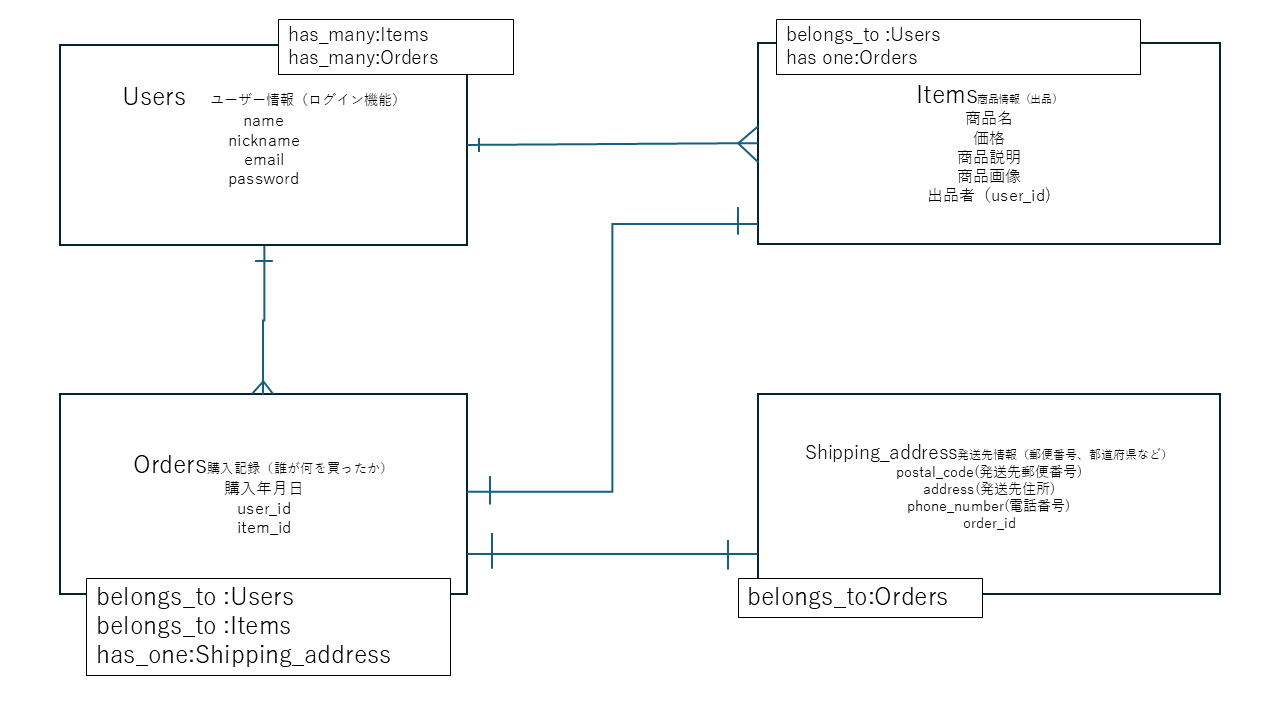
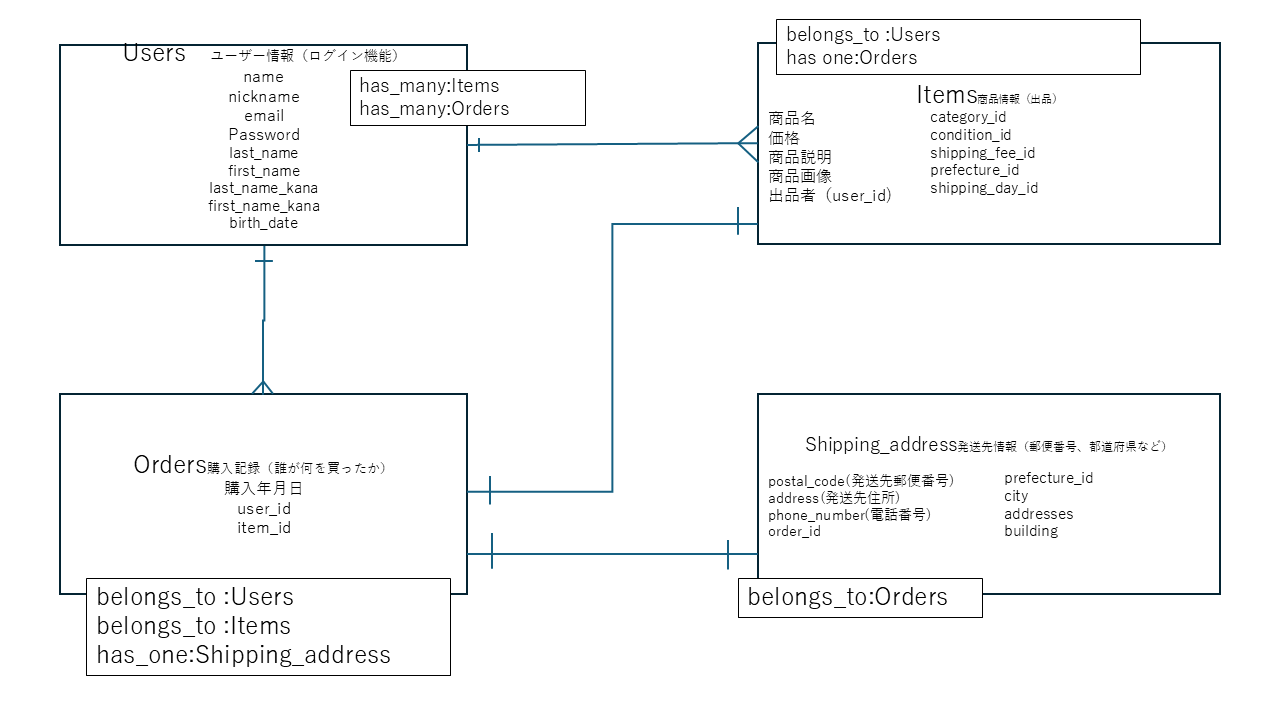
fix: DB設計のテーブルカラムを修正しER図を更新

diff --git a/README.md b/README.md
@@ -5,12 +5,16 @@
 
 ## users テーブル
 
-| Column   | Type   | Options     |
-| -------- | ------ | ----------- |
-| name     | string | null: false |
-| nickname | string | null: false |
-| email    | string | null: false, unique: true |
-| password | string | null: false |
+| Column             | Type   | Options                   |
+| ------------------ | ------ | ------------------------- |
+| nickname           | string | null: false               |
+| email              | string | null: false, unique: true |
+| encrypted_password | string | null: false               |
+| last_name          | string | null: false               |
+| first_name         | string | null: false               |
+| last_name_kana     | string | null: false               |
+| first_name_kana    | string | null: false               |
+| birth_date         | date   | null: false               |
 
 ### Association
 - has_many :items
@@ -18,12 +22,17 @@
 
 ## items テーブル
 
-| Column      | Type       | Options                        |
-| ----------- | ---------- | ------------------------------ |
-| name        | string     | null: false |
-| price       | integer    | null: false |
-| description | text       | null: false |
-| user_id     | references | null: false, foreign_key: true |
+| Column          | Type       | Options                        |
+| --------------- | ---------- | ------------------------------ |
+| name            | string     | null: false                    |
+| price           | integer    | null: false                    |
+| description     | text       | null: false                    |
+| category_id     | integer    | null: false                    |
+| condition_id    | integer    | null: false                    |
+| shipping_fee_id | integer    | null: false                    |
+| prefecture_id   | integer    | null: false                    |
+| shipping_day_id | integer    | null: false                    |
+| user_id         | references | null: false, foreign_key: true |
 
 ### Association
 - belongs_to :user
@@ -45,9 +54,12 @@
 
 | Column       | Type       | Options                        |
 | ------------ | ---------- | ------------------------------ |
-| postal_code  | string     | null: false |
-| address      | string     | null: false |
-| phone_number | string     | null: false |
+| postal_code  | string     | null: false                    |
+| prefecture_id| integer    | null: false                    |
+| city         | string     | null: false                    |
+| addresses    | string     | null: false                    |
+| building     | string     |                                |
+| phone_number | string     | null: false                    |
 | order_id     | references | null: false, foreign_key: true |
 
 ### Association
